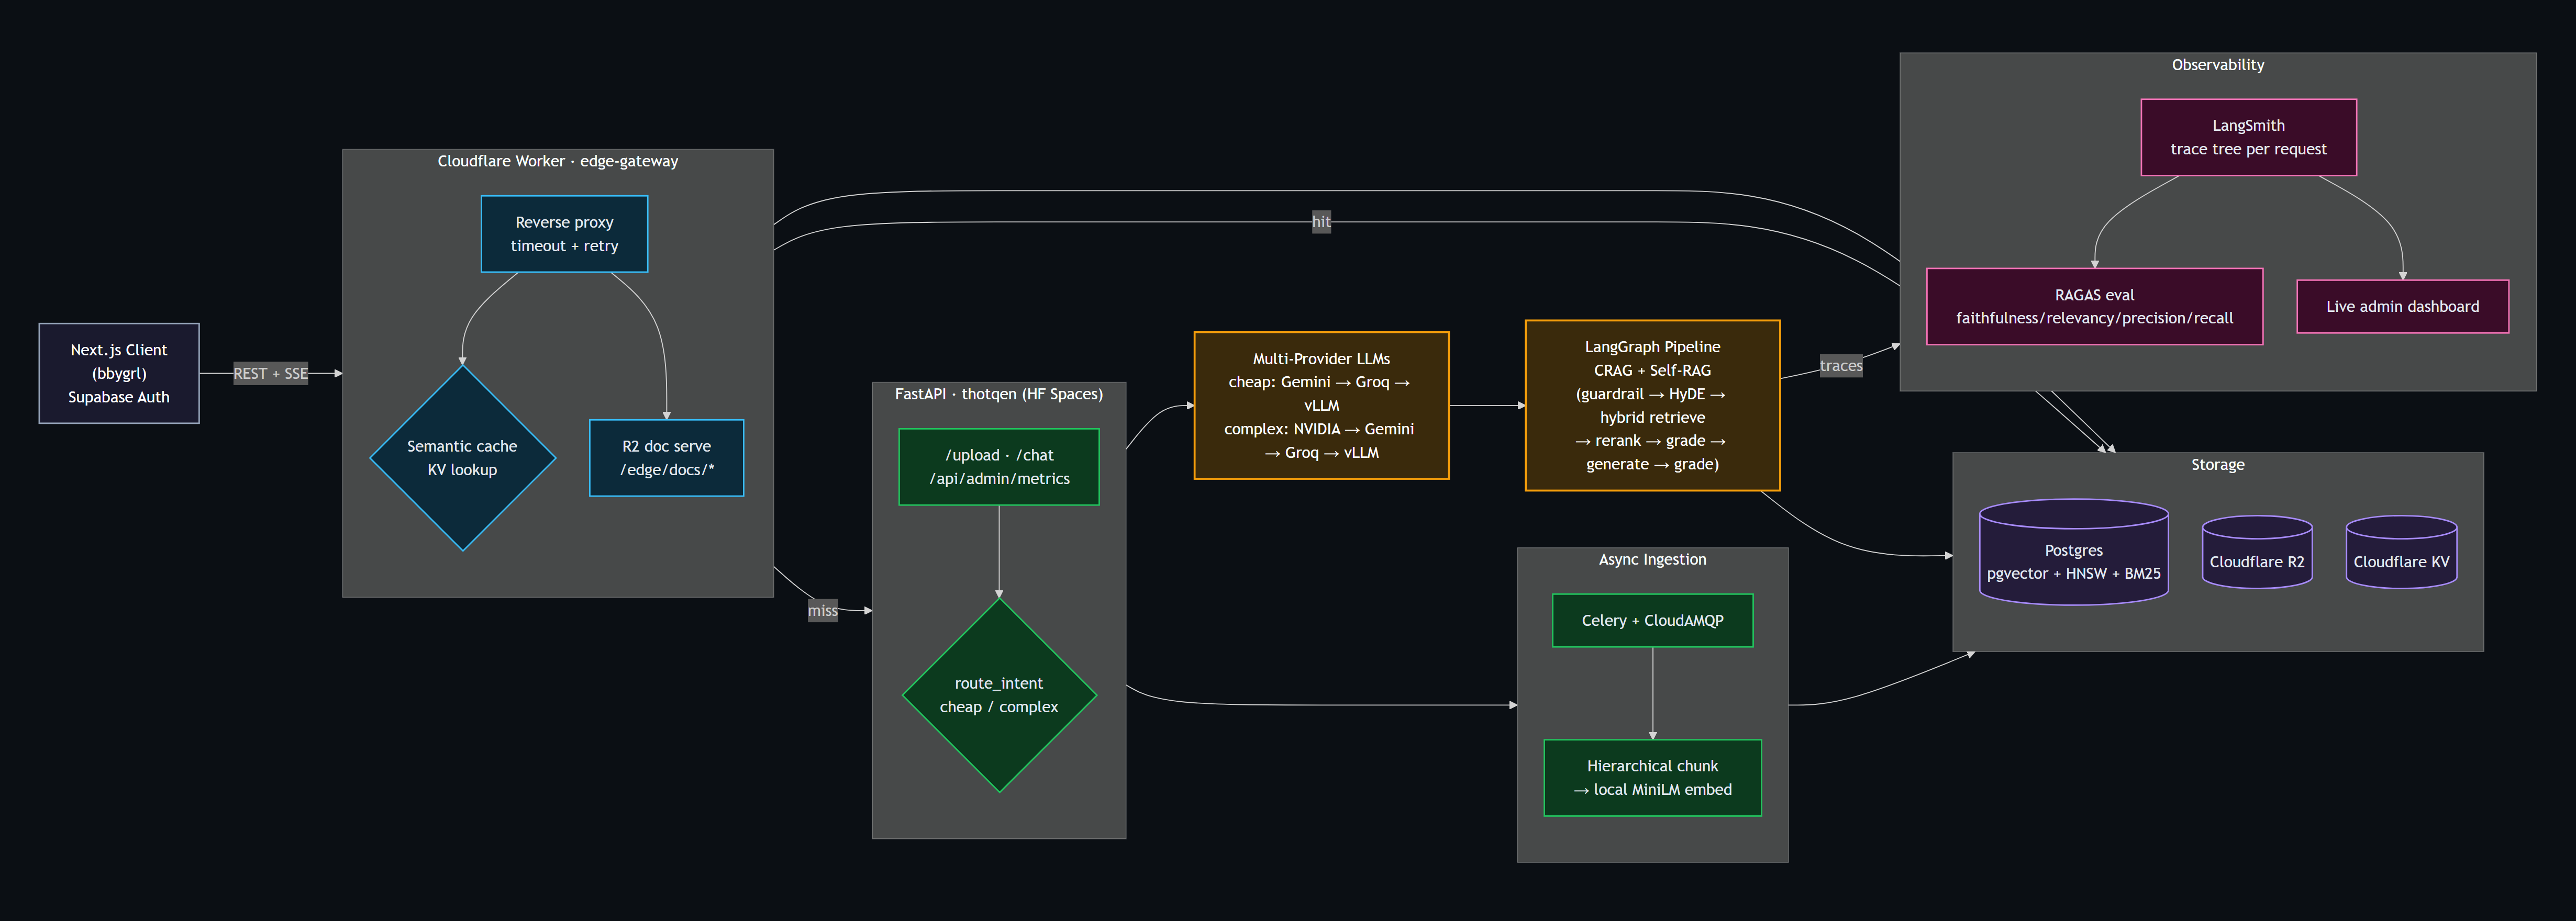
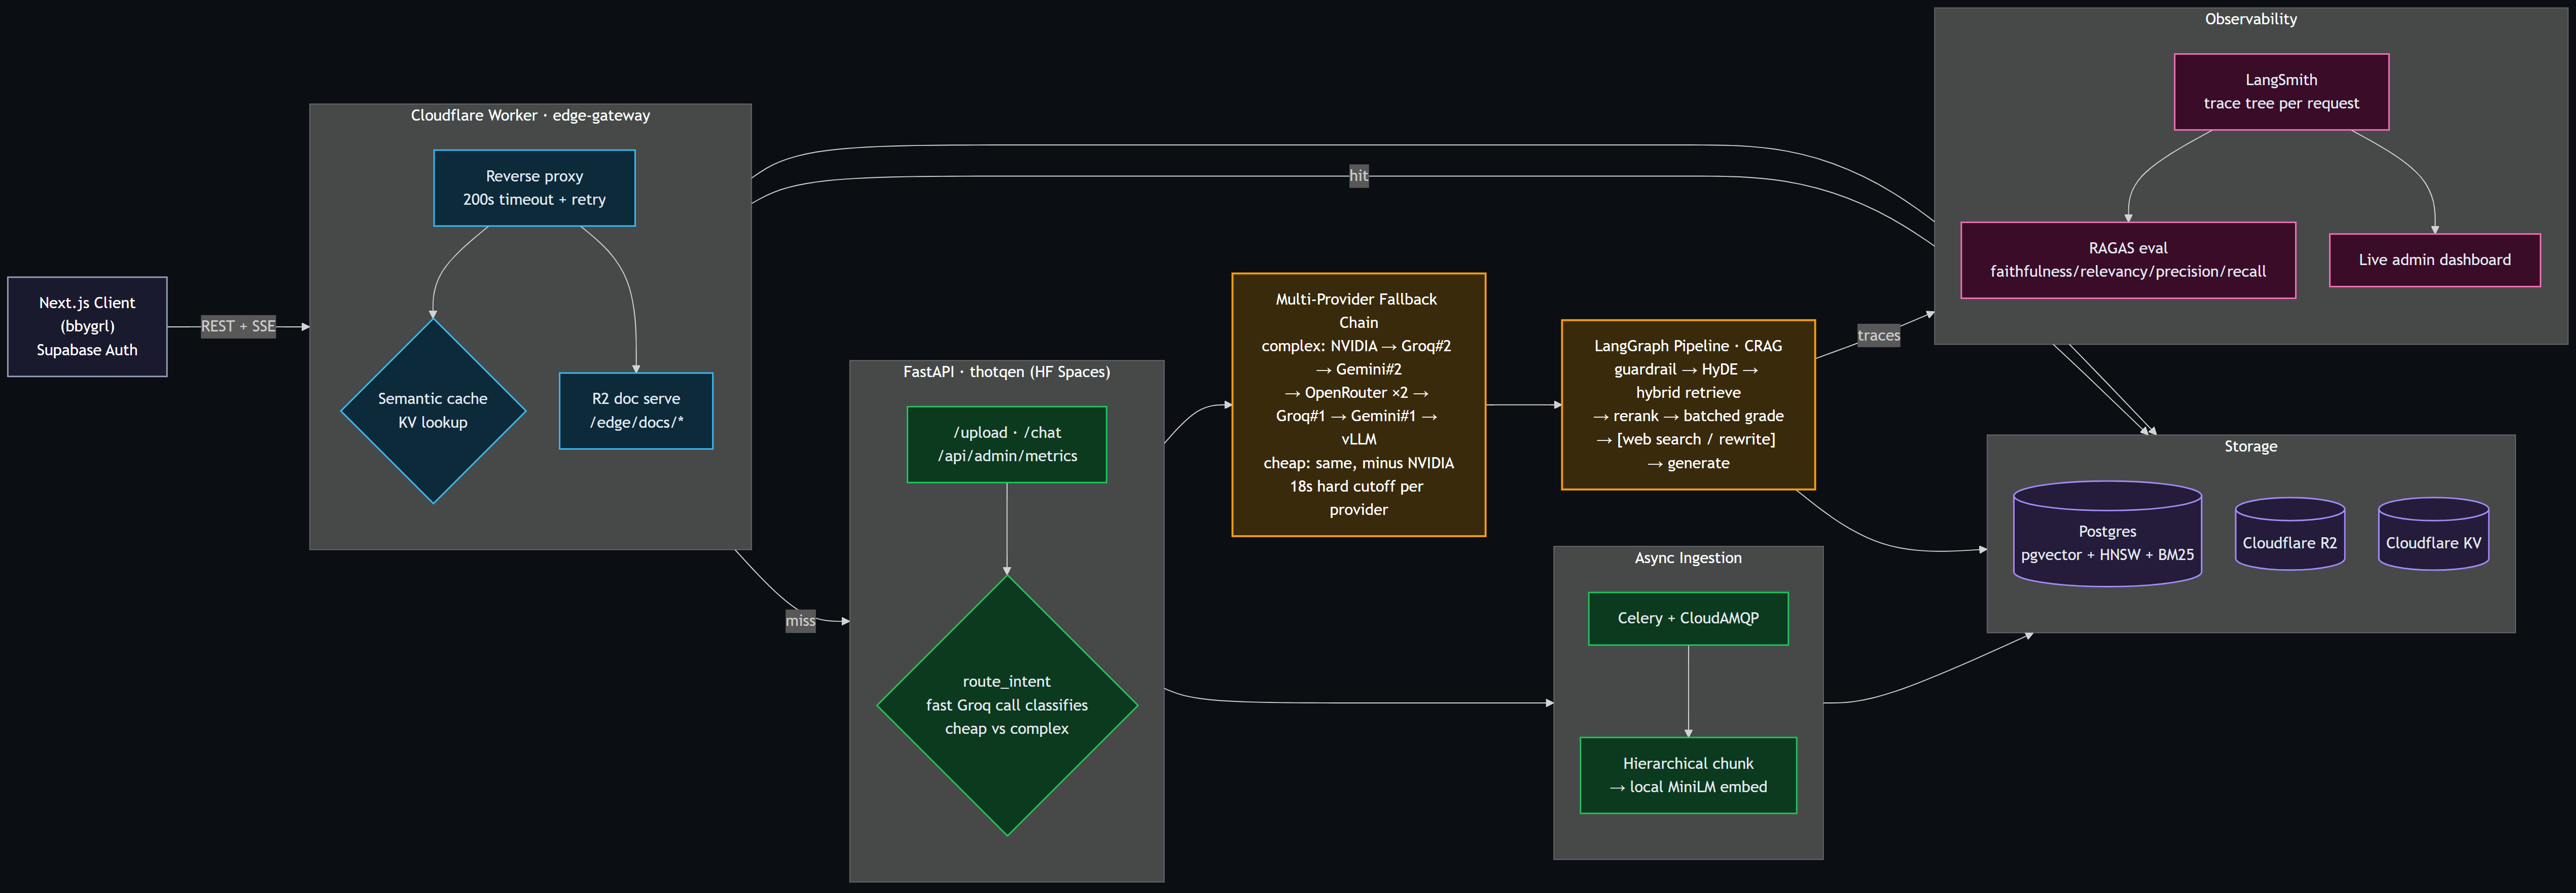
Update architecture docs and diagrams to match the current pipeline
Both diagrams and the surrounding docs were describing a system that no
longer exists: Self-RAG's grade_generation loop (removed earlier), the
old single-account Groq/Gemini provider chain (both accounts are now
dual, reordered around which one currently works), and per-document
grading calls (now batched into one).

- Both docs/*.png regenerated (same Mermaid-source-> Chrome screenshot
  pipeline as before) to show: intent routing as the first decision,
  the real current fallback chain order, batched document grading with
  its actual 50% relevance threshold, and generate going straight to
  the end instead of through a grading loop.
- ARCHITECTURE.md and README.md text + embedded Mermaid source synced
  to match — provider chains, trace span list, resilience description
  (cross-provider fallback, not same-provider retry), and env var list
  (GROQ_API_KEY_2, GEMINI_API_KEY_2, OPENROUTERAPIKEY).
- Added a short explanation of *why* Self-RAG was cut (measured
  latency variance, not a guess) rather than just deleting the mention.

diff --git a/ARCHITECTURE.md b/ARCHITECTURE.md
@@ -8,7 +8,7 @@ This document provides a comprehensive breakdown of the **AI Knowledge Copilot**
 
 ![System architecture](docs/architecture_overview.png)
 
-Client → Cloudflare Worker edge gateway (CORS, semantic cache, R2 doc serving, reverse proxy with timeout/retry) → FastAPI backend → intent-routed multi-provider LLMs → LangGraph CRAG/Self-RAG pipeline → Postgres/pgvector + R2 storage, with every request fully traced through LangSmith and scored offline via a RAGAS eval harness.
+Client → Cloudflare Worker edge gateway (CORS, semantic cache, R2 doc serving, reverse proxy with timeout/retry) → FastAPI backend → intent-routed multi-provider LLM fallback chain → LangGraph CRAG pipeline → Postgres/pgvector + R2 storage, with every request fully traced through LangSmith and scored offline via a RAGAS eval harness.
 
 <details>
 <summary>Mermaid source (editable)</summary>
@@ -27,7 +27,7 @@ flowchart LR
     subgraph API["FastAPI · thotqen (HF Spaces)"]
         direction TB
         Endpoints["/upload · /chat\n/api/admin/metrics"]
-        Intent{"route_intent\ncheap / complex"}
+        Intent{"route_intent\nfast Groq call classifies\ncheap vs complex"}
     end
 
     subgraph Async["Async Ingestion"]
@@ -36,9 +36,9 @@ flowchart LR
         Chunk["Hierarchical chunk\n→ local MiniLM embed"]
     end
 
-    LLMs["Multi-Provider LLMs\ncheap: Gemini → Groq → vLLM\ncomplex: NVIDIA → Gemini → Groq → vLLM"]
+    LLMs["Multi-Provider Fallback Chain\ncomplex: NVIDIA → Groq#2 → Gemini#2\n→ OpenRouter ×2 → Groq#1 → Gemini#1 → vLLM\ncheap: same, minus NVIDIA\n18s hard cutoff per provider"]
 
-    RAG["LangGraph Pipeline\nCRAG + Self-RAG\n(guardrail → HyDE → hybrid retrieve\n→ rerank → grade → generate → grade)"]
+    RAG["LangGraph Pipeline · CRAG\nguardrail → HyDE → hybrid retrieve\n→ rerank → batched grade\n→ [web search / rewrite] → generate"]
 
     subgraph Store["Storage"]
         direction TB
@@ -98,13 +98,14 @@ flowchart LR
 
 ### 4. AI / ML / Observability
 - **Intent Router**: A fast/cheap model classifies each query as `cheap` or `complex` before routing.
-- **Cheap tier**: Gemini 2.5 Flash → Groq Llama 3.1 8B → self-hosted vLLM (PagedAttention) fallback.
-- **Complex tier**: NVIDIA-hosted Llama 3.1 70B → Gemini 2.5 Pro → Groq Llama 3.3 70B → self-hosted vLLM fallback.
+- **Complex tier**: NVIDIA-hosted Llama 3.1 70B → Groq (2nd account) Llama 3.3 70B → Gemini (2nd account) 2.5 Pro → OpenRouter free auto-router (tried twice — a different free model per draw) → Groq (1st account) → Gemini (1st account) → self-hosted vLLM.
+- **Cheap tier**: same chain, minus the NVIDIA hop — Groq (2nd account) Llama 3.1 8B first.
+- Each provider is wrapped in a hard 18s cutoff enforced externally via a `ThreadPoolExecutor` (`ChatNVIDIA` in particular exposes no timeout of its own), so a stuck provider can't stall the whole fallback chain.
 - **Embeddings**: `sentence-transformers/all-MiniLM-L6-v2` (local, 384-dim).
 - **Reranker**: `BAAI/bge-reranker-base` (local BGE cross-encoder).
 - **CRAG web fallback**: Tavily (DuckDuckGo fallback if no `TAVILY_API_KEY`).
-- **Resilience**: every LLM call in the graph is wrapped in exponential-backoff retry (tenacity) — a transient timeout/rate-limit on one node doesn't kill the whole run.
-- **LangSmith**: Every node in the graph carries a named `@traceable` span — a full request renders as one readable trace tree (guardrail → HyDE → retrieve → rerank → grade → generate → grade), not scattered LLM calls.
+- **Resilience — cross-provider, not same-provider retry**: `.with_fallbacks()` moves to the next provider immediately on any failure within one call. A same-chain retry loop used to sit on top of this too (up to 4 attempts historically) — measured live that it just re-hit an already-exhausted chain for account-level failures (quota/org-restriction) without helping, while multiplying worst-case latency, so it was cut to a single pass per call.
+- **LangSmith**: Every node in the graph carries a named `@traceable` span — a full request renders as one readable trace tree (guardrail → HyDE → retrieve → rerank → grade → generate), not scattered LLM calls.
 - **RAGAS**: Offline eval harness (`scripts/generate_testset.py` + `scripts/run_evals.py`) scoring Context Precision, Context Recall, Answer Relevancy, and Faithfulness against a synthetic testset generated from real ingested documents.
 - **Live admin dashboard**: `GET /api/admin/metrics` pulls real run counts, success rate, latency, and token usage straight from the LangSmith API.
 
@@ -125,9 +126,9 @@ flowchart LR
 
 ---
 
-## 🤖 Query Pipeline (LangGraph — CRAG + Self-RAG)
+## 🤖 Query Pipeline (LangGraph — CRAG)
 
-Every user question flows through a stateful graph, fully traced in LangSmith node-by-node:
+Every user question is first classified by the intent router, then flows through a stateful graph, fully traced in LangSmith node-by-node:
 
 ![LangGraph pipeline detail](docs/pipeline_detail.png)
 
@@ -136,24 +137,27 @@ Every user question flows through a stateful graph, fully traced in LangSmith no
 
 ```mermaid
 flowchart TD
-    START(["User question"]) --> IG["input_guardrail\nLLM safety check"]
-    IG -- flagged --> BLOCKED(["Request blocked"])
+    START(["User question"]) --> INTENT{"route_intent\nfast LLM call classifies:\ncheap or complex?"}
+    INTENT -- "cheap\n(greeting, simple fact)" --> CHAINC["LLM fallback chain — cheap\nGroq #2 → Gemini #2 → OpenRouter ×2\n→ Groq #1 → Gemini #1 → vLLM\n(18s hard cutoff per provider)"]
+    INTENT -- "complex\n(reasoning, synthesis)" --> CHAINX["LLM fallback chain — complex\nNVIDIA → Groq #2 → Gemini #2 → OpenRouter ×2\n→ Groq #1 → Gemini #1 → vLLM\n(18s hard cutoff per provider)"]
+    CHAINC --> IG
+    CHAINX --> IG
+    IG["input_guardrail\nLLM safety check"] -- flagged --> BLOCKED(["Request blocked"])
     IG -- safe --> HYDE["hyde_generator\nhypothetical answer for recall"]
     HYDE --> RET["retrieve\nhybrid search: BM25 + HNSW vector → RRF"]
     RET --> RERANK["rerank_documents\nBGE cross-encoder, keep top-5"]
-    RERANK --> GRADE{"grade_documents\nCRAG relevance check"}
-    GRADE -- "all irrelevant\nno web search yet" --> WEB["web_search\nTavily (DuckDuckGo fallback)"]
-    GRADE -- "all irrelevant\nweb already tried" --> RW1["rewrite_query"]
-    GRADE -- "some relevant" --> GEN["generate\nanswer from filtered context"]
+    RERANK --> GRADE{"grade_documents\n1 batched LLM call grades\nALL docs at once\nrelevant ratio < 50%?"}
+    GRADE -- "below 50%,\nno web search yet" --> WEB["web_search\nTavily (DuckDuckGo fallback)"]
+    GRADE -- "below 50%,\nweb already tried" --> RW1["rewrite_query\nLLM rephrases the question"]
+    GRADE -- "50%+ relevant" --> GEN["generate\nanswer from filtered context\n+ chat history"]
     WEB --> GEN
-    RW1 --> RET
-    GEN --> GG{"grade_generation\nSelf-RAG: grounded? useful?"}
-    GG -- "hallucinated or\nunhelpful, under 3 loops" --> RW2["rewrite_query"]
-    GG -- "grounded + useful" --> DONE(["Final answer"])
-    RW2 --> RET
+    RW1 -- "loop back\n(max 2 rounds total)" --> RET
+    GEN --> DONE(["Final answer\nstreamed to user"])
 ```
 
 </details>
+
+> **Why no Self-RAG grading loop?** An earlier version graded every generated answer for groundedness/usefulness and auto-rewrote on failure. Measured live: the same query against the same document needed 0 extra rounds on one run and 3 on another — grading "is this answer grounded" is a much fuzzier judgment call than CRAG's per-document relevance check, and it was the dominant source of latency variance (up to ~145s on a bad run) without a proportionate correctness win. Removed outright; CRAG's cheaper, more predictable retrieval-quality loop stays.
 
 ### Hybrid Search (RRF)
 The `hybrid_search` PostgreSQL function combines:
@@ -202,4 +206,5 @@ When a child chunk is retrieved, its **parent chunk** content is returned to the
 6. **Offline Evals as a Regression Gate**: RAGAS metrics are run on demand via a script, not inline, to keep request latency minimal — the goal is catching quality regressions before merge, not proving a fabricated improvement delta on every change.
 7. **Pro-Grade Observability**: Using LangSmith, the LangGraph execution is fully traced — every node, LLM call, token count, and latency metric is logged to a central dashboard.
 8. **Live Admin Telemetry**: `GET /api/admin/metrics` queries the LangSmith API directly and feeds a live dashboard — real numbers, not static claims.
-9. **Resilience by Design**: every LLM call in the graph retries with exponential backoff on transient failures (timeouts, 429s, 5xxs), and the pipeline degrades gracefully — an honest "I don't know" instead of a hallucination when retrieval or grading can't complete.
+9. **Resilience by Design**: every LLM call goes through a cross-provider fallback chain with a hard per-provider timeout, so a stuck or rate-limited provider can't stall the request — moving to the next provider immediately, not retrying the same one. The pipeline degrades gracefully — an honest "I don't know" instead of a hallucination when retrieval genuinely can't find relevant context.
+10. **Cutting a Grading Step That Didn't Earn Its Latency Cost**: Self-RAG's post-generation grounded/useful check was removed after measuring it live — it was an inherently fuzzier judgment call than CRAG's document-relevance check, and the dominant source of run-to-run latency variance, without a proportionate correctness win. Good engineering sometimes means deleting a feature once the data says it isn't pulling its weight.

diff --git a/README.md b/README.md
@@ -12,7 +12,7 @@ A highly optimized, production-ready Retrieval-Augmented Generation (RAG) system
 
 ![System architecture](docs/architecture_overview.png)
 
-Full breakdown — including the detailed CRAG/Self-RAG pipeline diagram — in [ARCHITECTURE.md](ARCHITECTURE.md).
+Full breakdown — including the detailed CRAG pipeline diagram — in [ARCHITECTURE.md](ARCHITECTURE.md).
 
 ---
 
@@ -20,12 +20,12 @@ Full breakdown — including the detailed CRAG/Self-RAG pipeline diagram — in 
 
 Unlike basic "tutorial-grade" RAG systems, **Thotqen** implements advanced optimization patterns to handle production scale:
 
-### 1. Stateful Self-RAG & CRAG Graph ([langgraph_rag.py](file:///home/ayush/.dev/bbygrl/thotqen/app/services/langgraph_rag.py))
+### 1. Stateful CRAG Graph ([langgraph_rag.py](file:///home/ayush/.dev/bbygrl/thotqen/app/services/langgraph_rag.py))
 Built on **LangGraph**, the pipeline manages a complex routing topology that incorporates:
 *   **Input Guardrails:** Early classification to block prompt injection and toxic queries.
 *   **HyDE (Hypothetical Document Embeddings):** Generates hypothetical answers to bridge the semantic gap between questions and document chunks.
-*   **Corrective RAG (CRAG) Fallback:** Integrates live web search (Tavily/DuckDuckGo) when the local knowledge base yields insufficient document scores.
-*   **Self-RAG Loops:** Evaluates generated answers for hallucinations (groundedness) and query alignment (usefulness), triggering automatic query-rewrites if thresholds aren't met.
+*   **Corrective RAG (CRAG) Fallback:** A single batched LLM call grades every retrieved document's relevance at once; below a 50% relevant ratio, it falls back to live web search (Tavily/DuckDuckGo) or rewrites the query and retries (capped at 2 rounds).
+*   *(A Self-RAG post-generation grounded/useful check previously sat after `generate` — removed after measuring it as the dominant source of latency variance for a judgment call fuzzier than CRAG's document grading, without a proportionate correctness win.)*
 
 ### 2. Hierarchical (Parent-Child) Chunking ([chunking.py](file:///home/ayush/.dev/bbygrl/thotqen/app/services/chunking.py))
 *   **The Problem:** Large chunks dilute semantic vector representation. Tiny chunks lack the context necessary for an LLM to generate high-quality answers.
@@ -38,10 +38,11 @@ Uses a custom database-level function `hybrid_search()` to run:
 *   **Fusion:** Fuses ranks using the **RRF formula** ($Score = \sum \frac{1}{60 + rank}$), catching exact terms (codes, IDs) and semantic meaning without needing complex score-normalization.
 
 ### 4. Intent Routing ([rag.py](file:///home/ayush/.dev/bbygrl/thotqen/app/services/rag.py))
-*   Routes incoming queries through a cheap classifier (`llama-3.1-8b-instant`).
-*   **Cheap/Factual Queries** are handled by high-throughput models: `gemini-2.5-flash` → Groq Llama 3.1 8B → self-hosted vLLM (PagedAttention) fallback.
-*   **Complex/Reasoning Queries** are routed to `meta/llama-3.1-70b-instruct` (Nvidia API) → `gemini-2.5-pro` → Groq Llama 3.3 70B → vLLM fallback. This reduces average API costs by up to 80%.
-*   Every LLM call in the graph retries with exponential backoff on transient timeouts/rate-limits (tenacity), and every node is traced in LangSmith as a named span.
+*   Routes incoming queries through a cheap classifier (`llama-3.1-8b-instant`) that labels each one `cheap` or `complex`.
+*   **Complex/Reasoning Queries**: `meta/llama-3.1-70b-instruct` (NVIDIA) → Groq Llama 3.3 70B (2nd account) → Gemini 2.5 Pro (2nd account) → OpenRouter's free auto-router (tried twice) → Groq (1st account) → Gemini (1st account) → self-hosted vLLM.
+*   **Cheap/Factual Queries**: same chain, minus the NVIDIA hop.
+*   Two accounts each for Groq/Gemini because the first of each hit a real account-level restriction (org restriction, quota exhaustion) — rather than block on fixing that, the second account is tried first and the first is kept further down the chain in case it recovers.
+*   Every provider gets a hard 18s cutoff enforced externally (not every provider's SDK honors its own `timeout` param — `ChatNVIDIA` exposes none at all), and `.with_fallbacks()` moves to the next provider immediately on any failure — no same-provider retry loop sitting on top and multiplying worst-case latency. Every node is traced in LangSmith as a named span.
 
 ### 5. Local BGE Reranking
 *   Employs a local `BAAI/bge-reranker-base` cross-encoder to evaluate the retrieved document list.
@@ -57,7 +58,7 @@ Uses a custom database-level function `hybrid_search()` to run:
 *   Used as a regression gate, not a fabricated improvement claim — rerun after any retrieval/reranking/prompt change and diff against the last snapshot.
 
 ### 8. Full LangSmith Observability
-*   Every node in the LangGraph pipeline (`input_guardrail`, `hyde_generator`, `retrieve`, `rerank_documents`, `grade_documents`, `web_search`, `generate`, `grade_generation`) carries a named `@traceable` span, so a full request renders as one readable trace tree.
+*   Every node in the LangGraph pipeline (`input_guardrail`, `hyde_generator`, `retrieve`, `rerank_documents`, `grade_documents`, `web_search`, `generate`) carries a named `@traceable` span, so a full request renders as one readable trace tree.
 *   `GET /api/admin/metrics` queries the LangSmith API directly (`total_runs`, `success_rate`, `avg_latency_ms`, `total_tokens`, recent trace activity) — a live admin dashboard, not static numbers.
 
 ---
@@ -67,7 +68,7 @@ Uses a custom database-level function `hybrid_search()` to run:
 *   **Orchestration & Workflow:** LangGraph, Celery
 *   **Vector Database:** Supabase PostgreSQL with `pgvector` & HNSW indexing
 *   **Embeddings:** Local SentenceTransformers (`all-MiniLM-L6-v2` / 384-dim)
-*   **LLMs:** Gemini 2.5 (Flash/Pro), Llama 3.x (Groq & NVIDIA AI Endpoints), self-hosted vLLM (PagedAttention) as the no-API-key fallback
+*   **LLMs:** Gemini 2.5 Pro (2 accounts), Llama 3.x (Groq — 2 accounts, & NVIDIA AI Endpoints), OpenRouter free auto-router, self-hosted vLLM (PagedAttention) as the no-API-key last resort
 *   **Observability:** LangSmith (full tracing), RAGAS (offline eval)
 *   **Hosting:** Dockerized deployment optimized for Hugging Face Spaces
 
@@ -81,6 +82,9 @@ SECRET_KEY=your_auth_secret
 GROQ_API_KEY=gsk_...
 GEMINI_API_KEY=AIzaSy...
 NVIDIA_API_KEY=nvapi-...
+GROQ_API_KEY_2=gsk_...        # optional — 2nd account, tried before the 1st
+GEMINI_API_KEY_2=AIzaSy...    # optional — 2nd account, tried before the 1st
+OPENROUTERAPIKEY=sk-or-v1-... # optional — free auto-router, tried twice per request
 TAVILY_API_KEY=tvly-...
 LANGSMITH_TRACING=true
 LANGSMITH_API_KEY=lsv2_pt_...